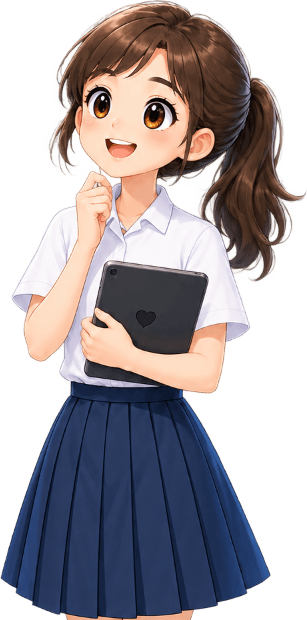
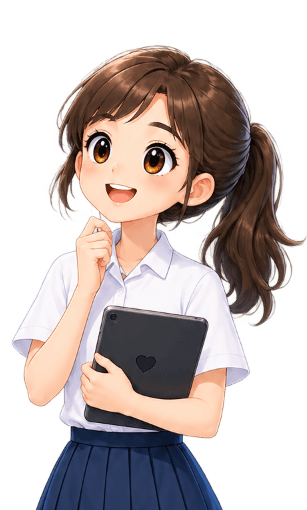
fix(analysis): make all mini card boxes 100% equal in size, geometry, and layout matching reference mockup

diff --git a/src/views/AnalysisView.tsx b/src/views/AnalysisView.tsx
@@ -114,7 +114,7 @@ export const AnalysisView: React.FC<AnalysisViewProps> = ({
     return '🎉 ค้นพบพลังพยาบาลที่ใช่สำหรับคุณแล้ว!';
   };
 
-  // Reusable badge item renderer
+  // ── Render Single Role Badge Card (All 8 cards are 100% identical in size and styling) ──────
   const renderBadge = (badge: ProcessingBadgeItem, isFlipped: boolean = false) => {
     const isScanning = currentScanningPathId === badge.pathId;
     const theme = BADGE_THEMES[badge.pathId] || { textColor: 'text-[#002B7F]' };
@@ -122,22 +122,22 @@ export const AnalysisView: React.FC<AnalysisViewProps> = ({
     return (
       <div
         key={badge.pathId}
-        className={`flex flex-col items-center justify-center transition-all duration-300 select-none relative ${
+        className={`flex flex-col items-center justify-start w-[80px] sm:w-[92px] md:w-[104px] transition-all duration-300 select-none relative ${
           isScanning
-            ? 'scale-115 z-30 drop-shadow-[0_0_22px_rgba(255,51,102,0.95)]'
-            : 'hover:scale-105 drop-shadow-xs'
+            ? 'scale-110 z-30 drop-shadow-[0_0_22px_rgba(255,51,102,0.95)]'
+            : 'hover:scale-105 drop-shadow-xs z-10'
         }`}
       >
         {/* Live Scanning Tag */}
         {isScanning && (
-          <div className="absolute -top-2.5 left-1/2 -translate-x-1/2 bg-[#FF3366] text-white text-[7px] sm:text-[8px] font-black px-1.5 py-0.2 rounded-full uppercase shadow-md flex items-center gap-0.5 whitespace-nowrap animate-pulse">
+          <div className="absolute -top-2.5 left-1/2 -translate-x-1/2 bg-[#FF3366] text-white text-[7px] sm:text-[8px] font-black px-1.5 py-0.5 rounded-full uppercase shadow-md flex items-center gap-0.5 whitespace-nowrap animate-pulse z-40">
             <Zap className="w-2.5 h-2.5 fill-current" />
             <span>SCANNING</span>
           </div>
         )}
 
-        {/* Floating Badge Icon (Flipped horizontally on right side to gaze inward) */}
-        <div className={`w-13 h-13 sm:w-15 sm:h-15 md:w-17 md:h-17 flex items-center justify-center ${isScanning ? 'animate-bounce-gentle' : ''}`}>
+        {/* Role Badge Icon Box (Strict identical size for all cards) */}
+        <div className={`w-[60px] h-[60px] sm:w-[72px] sm:h-[72px] md:w-[80px] md:h-[80px] flex items-center justify-center shrink-0 ${isScanning ? 'animate-bounce-gentle' : ''}`}>
           <img
             src={badge.imgUrl}
             alt={badge.titleEn}
@@ -147,12 +147,14 @@ export const AnalysisView: React.FC<AnalysisViewProps> = ({
           />
         </div>
 
-        {/* Badge Title */}
-        <span
-          className={`text-[7.5px] sm:text-[8.5px] md:text-[9.5px] font-black tracking-tight uppercase text-center mt-0.5 leading-tight px-0.5 max-w-[85px] sm:max-w-[110px] drop-shadow-[0_1px_2px_rgba(255,255,255,0.95)] ${theme.textColor}`}
-        >
-          {badge.titleEn}
-        </span>
+        {/* Badge Title (Fixed height ensures uniform card box size across all 8 badges) */}
+        <div className="h-[22px] sm:h-[26px] md:h-[28px] flex items-center justify-center w-full mt-0.5">
+          <span
+            className={`text-[7.5px] sm:text-[8.5px] md:text-[9.5px] font-black tracking-tight uppercase text-center leading-tight px-0.5 drop-shadow-[0_1px_2px_rgba(255,255,255,0.95)] line-clamp-2 ${theme.textColor}`}
+          >
+            {badge.titleEn}
+          </span>
+        </div>
       </div>
     );
   };
@@ -284,80 +286,54 @@ export const AnalysisView: React.FC<AnalysisViewProps> = ({
             </p>
           </div>
 
-          {/* ── Center Stage: Authentic Mockup Circular Orbit Layout ── */}
-          <div className="flex-1 relative flex flex-col justify-between min-h-0 overflow-hidden my-0.5 px-1 sm:px-2">
+          {/* ── Center Stage: 3-Column Radial Orbit (Matching Reference Mockup 1:1) ── */}
+          <div className="flex-1 relative flex items-center justify-between min-h-0 overflow-hidden my-0.5 px-0.5 sm:px-2">
 
             {/* Pulsing Concentric Holographic Radar Aura in Center */}
             <div className="absolute top-1/2 left-1/2 -translate-x-1/2 -translate-y-1/2 w-64 h-64 sm:w-80 sm:h-80 md:w-96 md:h-96 rounded-full bg-radial from-cyan-300/30 via-pink-300/10 to-transparent animate-pulse pointer-events-none" />
 
-            {/* ── TOP TIER: PED (left) | MAT (center if female) | MH (right) ── */}
-            <div className="relative z-20 flex items-start justify-between w-full px-1 sm:px-2 pt-0.5">
-              {/* Top Left: Pediatric Nurse */}
-              <div className="w-[28%] sm:w-[26%] flex justify-center">
-                {renderBadge(badgePED, false)}
-              </div>
-
-              {/* Top Center: Maternal & Newborn (Female only) */}
-              <div className="flex-1 flex justify-center">
-                {badgeMAT ? renderBadge(badgeMAT, false) : <div className="h-4" />}
-              </div>
-
-              {/* Top Right: Mental Health Nurse (Gaze Inward) */}
-              <div className="w-[28%] sm:w-[26%] flex justify-center">
-                {renderBadge(badgeMH, true)}
-              </div>
+            {/* ── COLUMN 1: LEFT FLANK (PED, ER, COMM) ── */}
+            <div className="w-1/3 flex flex-col items-center justify-between h-full py-0.5 z-20">
+              {renderBadge(badgePED, false)}
+              {renderBadge(badgeER, false)}
+              {renderBadge(badgeCOMM, false)}
             </div>
 
-            {/* ── MIDDLE TIER: Flank Badges + Center Student ── */}
-            <div className="relative z-10 flex-1 flex items-center justify-between min-h-0 px-1 sm:px-2">
-              {/* Left Flank: Emergency (upper) + Community (lower) */}
-              <div className="w-[28%] sm:w-[26%] flex flex-col justify-around h-full py-0.5 z-20 space-y-1.5 sm:space-y-2.5">
-                {renderBadge(badgeER, false)}
-                {renderBadge(badgeCOMM, false)}
+            {/* ── COLUMN 2: CENTER (MAT at Top, Student in Middle, TECH at Bottom) ── */}
+            <div className="w-1/3 flex flex-col items-center justify-between h-full py-0.5 z-20">
+              {/* Top Center: MAT (Female only) or spacer for Male */}
+              <div className="flex items-start justify-center">
+                {badgeMAT ? (
+                  renderBadge(badgeMAT, false)
+                ) : (
+                  <div className="w-[80px] sm:w-[92px] md:w-[104px] h-[84px] sm:h-[98px]" />
+                )}
               </div>
 
-              {/* Center Column: Student Character (Waist-up, centered between tiers) */}
-              <div className="flex-1 h-full relative flex items-center justify-center min-h-0 px-1">
-                <div className="relative w-full h-full flex items-center justify-center max-h-[280px] sm:max-h-[340px] md:max-h-[380px]">
+              {/* Center Character (Waist-Up Student) */}
+              <div className="flex-1 w-full flex items-center justify-center min-h-0 relative -my-1 z-10">
+                <div className="h-full max-h-[190px] sm:max-h-[235px] md:max-h-[275px] flex items-center justify-center">
                   <img
                     src={centerCharacterUrl}
                     alt={isFemale ? 'Female Student' : 'Male Student'}
-                    className="h-full w-auto max-w-full object-contain drop-shadow-[0_16px_36px_rgba(0,43,127,0.38)] animate-float-subtle select-none scale-105 sm:scale-115"
+                    className="h-full w-auto max-w-full object-contain drop-shadow-[0_12px_28px_rgba(0,43,127,0.35)] animate-float-subtle select-none scale-105 sm:scale-110"
                     loading="eager"
                     decoding="sync"
                   />
                 </div>
               </div>
 
-              {/* Right Flank: Older Adult (upper) + International (lower) (Gaze Inward) */}
-              <div className="w-[28%] sm:w-[26%] flex flex-col justify-around h-full py-0.5 z-20 space-y-1.5 sm:space-y-2.5">
-                {renderBadge(badgeOA, true)}
-                {renderBadge(badgeINT, true)}
+              {/* Bottom Center: TECH (Strictly identical size to all other 7 cards!) */}
+              <div className="flex items-end justify-center">
+                {renderBadge(badgeTECH, false)}
               </div>
             </div>
 
-            {/* ── BOTTOM TIER: Nursing + Technology in Center Hologram Frame ── */}
-            <div className="relative z-20 flex justify-center w-full pb-1">
-              <div
-                className={`rounded-xl px-2.5 py-1 flex items-center gap-1.5 transition-all duration-300 ${
-                  currentScanningPathId === 'TECH'
-                    ? 'scale-110 drop-shadow-[0_0_20px_rgba(56,189,248,0.95)]'
-                    : 'hover:scale-105 drop-shadow-xs'
-                }`}
-              >
-                <div className="w-8 h-8 sm:w-10 sm:h-10 overflow-hidden flex items-center justify-center shrink-0">
-                  <img
-                    src={badgeTECH.imgUrl}
-                    alt={badgeTECH.titleEn}
-                    className="w-full h-full object-contain"
-                    loading="eager"
-                    decoding="sync"
-                  />
-                </div>
-                <span className="text-[8px] sm:text-[9px] md:text-[10px] font-black text-[#0284C7] tracking-tight uppercase leading-tight whitespace-nowrap drop-shadow-[0_1px_2px_rgba(255,255,255,0.95)]">
-                  NURSING + TECHNOLOGY
-                </span>
-              </div>
+            {/* ── COLUMN 3: RIGHT FLANK (MH, OA, INT - Gaze Inward) ── */}
+            <div className="w-1/3 flex flex-col items-center justify-between h-full py-0.5 z-20">
+              {renderBadge(badgeMH, true)}
+              {renderBadge(badgeOA, true)}
+              {renderBadge(badgeINT, true)}
             </div>
 
           </div>

diff --git a/src/engine/audioManager.ts b/src/engine/audioManager.ts
@@ -164,8 +164,8 @@ function getSfxContext(): AudioContext | null {
 }
 
 /**
- * Plays a bubbly, rounded pop/chime when selecting a quiz option (A-F).
- * Pitch scales melodically across A, B, C, D, E, F.
+ * Plays a bright, sparkling crystal chime ("ปิ๊งๆๆ" / fairy sparkle) when selecting a quiz option (A-F).
+ * Synthesizes a rapid 3-step shimmering arpeggio with crystalline bell harmonics.
  */
 export function playSelectSfx(optionKey?: string): void {
   if (isMuted) return;
@@ -173,39 +173,66 @@ export function playSelectSfx(optionKey?: string): void {
     const ctx = getSfxContext();
     if (!ctx) return;
 
-    const pitchMap: Record<string, number> = {
-      A: 523.25, // C5
-      B: 587.33, // D5
-      C: 659.25, // E5
-      D: 698.46, // F5
-      E: 783.99, // G5
-      F: 880.00, // A5
+    // Bright pentatonic root frequencies (C6 - E7 range) for luminous, sparkling crystal tones
+    const rootPitches: Record<string, number> = {
+      A: 1318.51, // E6
+      B: 1479.98, // F#6
+      C: 1661.22, // G#6
+      D: 1975.53, // B6
+      E: 2217.46, // C#7
+      F: 2637.02, // E7
     };
-    const baseFreq = (optionKey && pitchMap[optionKey]) || 587.33;
+    const baseFreq = (optionKey && rootPitches[optionKey]) || 1479.98;
 
-    const osc = ctx.createOscillator();
-    const gain = ctx.createGain();
-
-    osc.type = 'sine';
     const now = ctx.currentTime;
 
-    // Gentle upward bubble pop: quick frequency sweep
-    osc.frequency.setValueAtTime(baseFreq * 1.18, now);
-    osc.frequency.exponentialRampToValueAtTime(baseFreq * 0.95, now + 0.08);
+    // 3 rapid micro-sparkles: "ปิ๊ง - ปิ๊ง - ปิ๊ง!" (approx. 38ms spacing)
+    // Intervals: Root (1.0) -> Major 3rd (1.26) -> 5th/Octave (1.50)
+    const sparkles = [
+      { delay: 0.000, freqMultiplier: 1.00, volume: 0.15, duration: 0.18 },
+      { delay: 0.038, freqMultiplier: 1.26, volume: 0.18, duration: 0.22 },
+      { delay: 0.076, freqMultiplier: 1.50, volume: 0.20, duration: 0.28 },
+    ];
 
-    gain.gain.setValueAtTime(0.28, now);
-    gain.gain.exponentialRampToValueAtTime(0.001, now + 0.12);
+    sparkles.forEach(({ delay, freqMultiplier, volume, duration }) => {
+      const startTime = now + delay;
+      const freq = baseFreq * freqMultiplier;
 
-    osc.connect(gain);
-    gain.connect(ctx.destination);
+      // 1) Pure fundamental sine wave (crystalline bell body)
+      const osc = ctx.createOscillator();
+      const gain = ctx.createGain();
+      osc.type = 'sine';
+      osc.frequency.setValueAtTime(freq, startTime);
 
-    osc.start(now);
-    osc.stop(now + 0.12);
+      gain.gain.setValueAtTime(0.0001, startTime);
+      gain.gain.linearRampToValueAtTime(volume, startTime + 0.003); // instant clickless attack
+      gain.gain.exponentialRampToValueAtTime(0.0001, startTime + duration); // shimmering bell decay
+
+      osc.connect(gain);
+      gain.connect(ctx.destination);
+      osc.start(startTime);
+      osc.stop(startTime + duration);
+
+      // 2) Crystal sparkle overtone (triangle harmonic at 2x octave for luminous glitter)
+      const shimmerOsc = ctx.createOscillator();
+      const shimmerGain = ctx.createGain();
+      shimmerOsc.type = 'triangle';
+      shimmerOsc.frequency.setValueAtTime(freq * 2.0, startTime);
+
+      shimmerGain.gain.setValueAtTime(0.0001, startTime);
+      shimmerGain.gain.linearRampToValueAtTime(volume * 0.35, startTime + 0.002);
+      shimmerGain.gain.exponentialRampToValueAtTime(0.0001, startTime + duration * 0.6);
+
+      shimmerOsc.connect(shimmerGain);
+      shimmerGain.connect(ctx.destination);
+      shimmerOsc.start(startTime);
+      shimmerOsc.stop(startTime + duration * 0.6);
+    });
   } catch (_e) {}
 }
 
 /**
- * Plays an upbeat, positive 2-tone chime when clicking "Next" (ถัดไป).
+ * Plays an upbeat, luminous 2-tone crystal chime when clicking "Next" (ถัดไป).
  */
 export function playNextSfx(): void {
   if (isMuted) return;
@@ -215,34 +242,45 @@ export function playNextSfx(): void {
 
     const now = ctx.currentTime;
 
-    // Note 1: E5 (659.25 Hz)
-    const osc1 = ctx.createOscillator();
-    const gain1 = ctx.createGain();
-    osc1.type = 'sine';
-    osc1.frequency.setValueAtTime(659.25, now);
-    gain1.gain.setValueAtTime(0.22, now);
-    gain1.gain.exponentialRampToValueAtTime(0.001, now + 0.08);
-    osc1.connect(gain1);
-    gain1.connect(ctx.destination);
-    osc1.start(now);
-    osc1.stop(now + 0.08);
+    // Rising cheerful high bells: G6 (1567.98 Hz) -> C7 (2093.00 Hz)
+    const notes = [
+      { time: now, freq: 1567.98, vol: 0.16, dur: 0.18 },
+      { time: now + 0.075, freq: 2093.00, vol: 0.22, dur: 0.32 },
+    ];
 
-    // Note 2: A5 (880.00 Hz) - rising happy chord
-    const osc2 = ctx.createOscillator();
-    const gain2 = ctx.createGain();
-    osc2.type = 'sine';
-    osc2.frequency.setValueAtTime(880.0, now + 0.06);
-    gain2.gain.setValueAtTime(0.26, now + 0.06);
-    gain2.gain.exponentialRampToValueAtTime(0.001, now + 0.18);
-    osc2.connect(gain2);
-    gain2.connect(ctx.destination);
-    osc2.start(now + 0.06);
-    osc2.stop(now + 0.18);
+    notes.forEach(({ time, freq, vol, dur }) => {
+      const osc = ctx.createOscillator();
+      const gain = ctx.createGain();
+      osc.type = 'sine';
+      osc.frequency.setValueAtTime(freq, time);
+
+      gain.gain.setValueAtTime(0.0001, time);
+      gain.gain.linearRampToValueAtTime(vol, time + 0.004);
+      gain.gain.exponentialRampToValueAtTime(0.0001, time + dur);
+
+      osc.connect(gain);
+      gain.connect(ctx.destination);
+      osc.start(time);
+      osc.stop(time + dur);
+
+      // Light sparkle overtone
+      const shim = ctx.createOscillator();
+      const shimGain = ctx.createGain();
+      shim.type = 'triangle';
+      shim.frequency.setValueAtTime(freq * 2, time);
+      shimGain.gain.setValueAtTime(0.0001, time);
+      shimGain.gain.linearRampToValueAtTime(vol * 0.3, time + 0.003);
+      shimGain.gain.exponentialRampToValueAtTime(0.0001, time + dur * 0.5);
+      shim.connect(shimGain);
+      shimGain.connect(ctx.destination);
+      shim.start(time);
+      shim.stop(time + dur * 0.5);
+    });
   } catch (_e) {}
 }
 
 /**
- * Plays a soft, polite tap tone when clicking "Back" (ย้อนกลับ).
+ * Plays a gentle, pleasant pastel chime when clicking "Back" (ย้อนกลับ).
  */
 export function playBackSfx(): void {
   if (isMuted) return;
@@ -255,17 +293,19 @@ export function playBackSfx(): void {
     const gain = ctx.createGain();
 
     osc.type = 'sine';
-    osc.frequency.setValueAtTime(460, now);
-    osc.frequency.exponentialRampToValueAtTime(340, now + 0.07);
+    // Gentle downward soft bell: 1046.50 Hz (C6) -> 783.99 Hz (G5)
+    osc.frequency.setValueAtTime(1046.50, now);
+    osc.frequency.exponentialRampToValueAtTime(783.99, now + 0.12);
 
-    gain.gain.setValueAtTime(0.2, now);
-    gain.gain.exponentialRampToValueAtTime(0.001, now + 0.09);
+    gain.gain.setValueAtTime(0.0001, now);
+    gain.gain.linearRampToValueAtTime(0.14, now + 0.004);
+    gain.gain.exponentialRampToValueAtTime(0.0001, now + 0.14);
 
     osc.connect(gain);
     gain.connect(ctx.destination);
 
     osc.start(now);
-    osc.stop(now + 0.09);
+    osc.stop(now + 0.14);
   } catch (_e) {}
 }
 

diff --git a/src/views/WelcomeView.tsx b/src/views/WelcomeView.tsx
@@ -2,7 +2,7 @@ import React from 'react';
 import { ChevronRight } from 'lucide-react';
 import { ASSETS } from '../assets/registry';
 import { SoundControl } from '../components/SoundControl';
-import { playAudio } from '../engine/audioManager';
+import { playAudio, playNextSfx } from '../engine/audioManager';
 
 interface WelcomeViewProps {
   onStart: () => void;
@@ -27,6 +27,7 @@ export const WelcomeView: React.FC<WelcomeViewProps> = ({ onStart }) => {
   }, []);
 
   const handleStartClick = () => {
+    playNextSfx();
     playAudio();
     onStart();
   };
